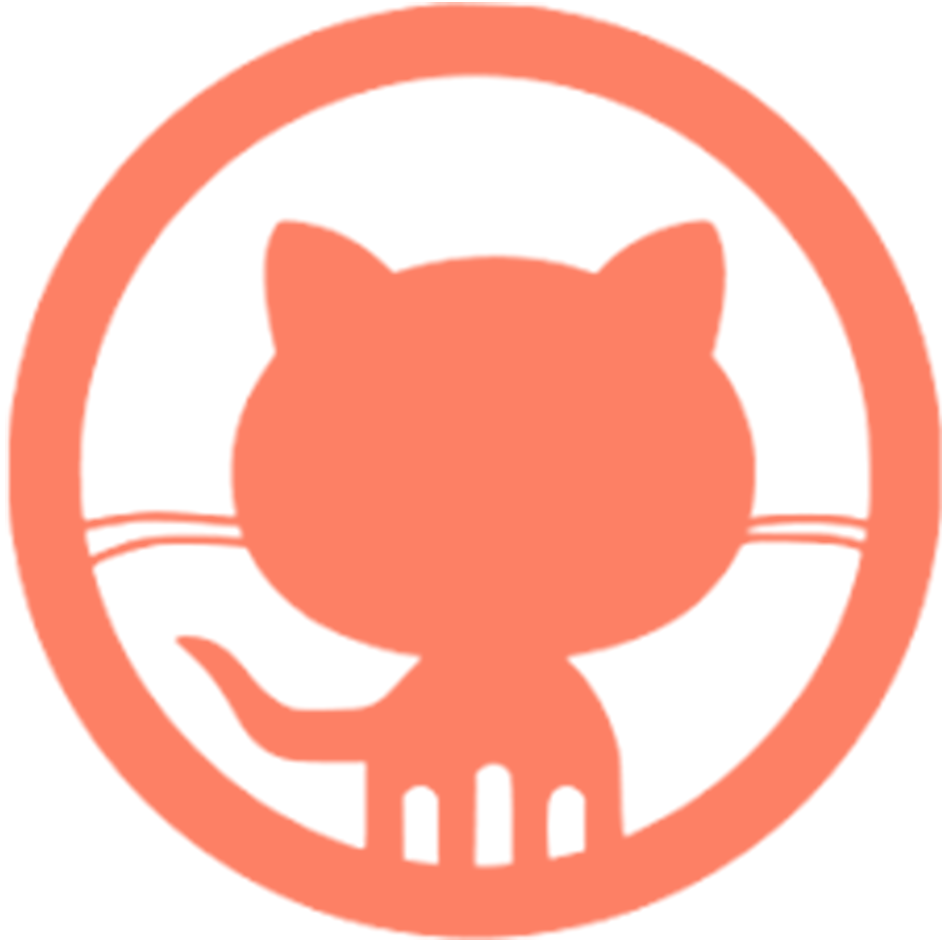
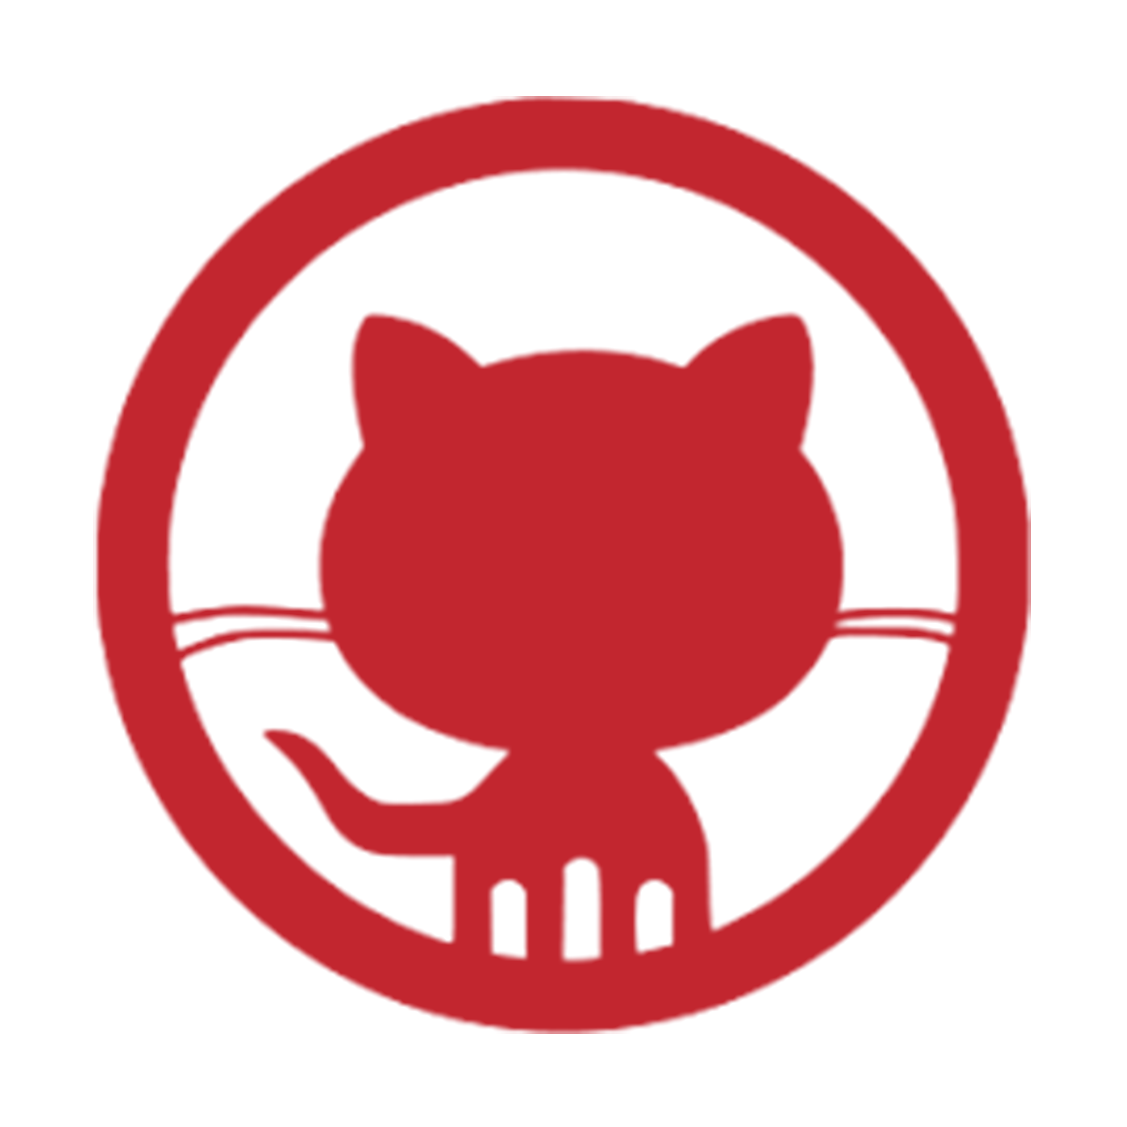
Add files via upload

diff --git a/style.css b/style.css
@@ -1,16 +1,15 @@
-*{
+* {
   padding: 0px;
   margin: 0px;
-
 }
 
 h1 {
-  color: #fd8065;
+  color: #c2262f;
   font-family: "Roboto", sans-serif;
   font-weight: 300;
   text-align: center;
   padding-bottom: 20px;
-  font-size:10vw;
+  font-size: 10vw;
 }
 
 h2 {
@@ -20,26 +19,26 @@ h2 {
   padding-bottom: 20px;
 }
 
-h3{
+h3 {
   font-weight: 400 !important;
 }
 
-.title{
+.title {
   font-weight: bolder;
 }
 
-.logo{
+.logo {
   width: 7rem;
 }
 
-.main{
+.main {
   background-image: url(./images/background-image.jpeg);
   background-size: 100% 135%;
   background-position: center;
   background-repeat: no-repeat;
 }
 
-.main-inner{
+.main-inner {
   background-color: rgba(255, 255, 255, 0.4);
 }
 
@@ -48,44 +47,43 @@ h3{
   font-weight: 600;
 }
 
-.info-box{
+.info-box {
   background-color: white;
   text-align: center;
-  border: 10px solid #fd8065;
+  border: 10px solid #c2262f;
   border-radius: 20px;
 }
 /* Extra small devices (phones, 600px and down) */
 @media only screen and (max-width: 600px) {
   h2.subtitle {
-      font-size: 18px;
-    }
-  h1.title{
-      font-size: 28px;
-      margin-top: 40px !important;
+    font-size: 18px;
+  }
+  h1.title {
+    font-size: 28px;
+    margin-top: 40px !important;
   }
 }
 /* Small devices (portrait tablets and large phones, 600px and up) */
 @media only screen and (min-width: 600px) and (max-width: 991px) {
   h2.subtitle {
-      font-size: 23px;
-    }
-  h1.title{
-      font-size: 35px;
-      margin-top: 35px !important;
+    font-size: 23px;
+  }
+  h1.title {
+    font-size: 35px;
+    margin-top: 35px !important;
   }
 }
 /* Large devices (laptops/desktops, 992px and up) */
 @media only screen and (min-width: 992px) {
   h2.subtitle {
-      font-size: 30px;
-      
-    }
-  h1.title{
-      font-size: 40px;
+    font-size: 30px;
+  }
+  h1.title {
+    font-size: 40px;
   }
 }
 @media only screen and (min-width: 991px) and (max-width: 1228px) {
-h3 {
-  font-size: 21px !important;
+  h3 {
+    font-size: 21px !important;
   }
 }

diff --git a/index.html b/index.html
@@ -13,7 +13,7 @@
     <section class="main">
         <header class="d-flex align-items-center justify-content-center bg-light">
             <div class="d-flex align-items-center justify-content-center my-2">
-                <img class="logo" src="images/logo-orange.png" alt="Covid logo" />
+                <img class="logo" src="images/logo-red.png" alt="Covid logo" />
                 <h1 class="title mt-3">Covid-19 Tracker Tool</h1>
             </div>
         </header>
